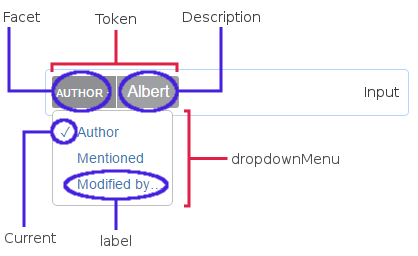
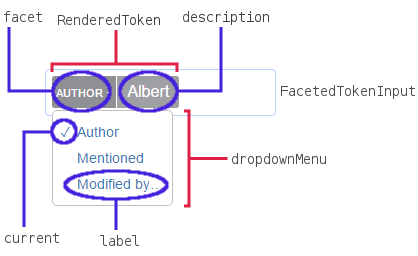
Corrected usage documentation page

diff --git a/docs/usage.md b/docs/usage.md
@@ -75,7 +75,8 @@ of this component in your React app.
 <a name="renderToken"></a>
 ### renderToken(token) (Required)
 
-A function that given a token return a rendered token.
+A function that given a `token` returns a rendered token to use in the main
+component.
 
 ```javascript
   renderToken(token) {
@@ -99,26 +100,22 @@ A function that given a token return a rendered token.
   }
 ```
 
-Here is a scheme of the token elements, based on the example included in the
-repository:
+Here is a scheme of the `RenderedToken` properties, based on the example
+included in the repository:
 
 ![Token elements scheme](./images/rendered-token-scheme.png)
 
-`facet`: a string that, in this example, will be displayed on the left side of
-the token.
-
-`description`: a string that, in this example, will be displayed on the right
-part of the token.
-
-`dropdownMenu`: The other possible options (if available) for the facet,
-defined as an array of objects. Each object contains:
-
-* `label`: a string that will be the new facet
-
-* `current`: a boolean that defines if this is the currently selected option, in
-  this example add and remove the check on the currently selected label.
-
-* `result`: the resulting token with the corrected facet
+* `facet`: a string that should represent the *kind* of the token. You can omit
+  it entirely.
+* `description`: a string that should represent the *content* or *value* of the
+  token.
+* `dropdownMenu`: The other possible options (if available) for this token,
+  defined as an array of objects. Each object contains:
+  * `label`: a string that will be the label for this option,
+  * `current`: a boolean that defines if this is the currently selected option
+    so a small tick can be presented on the left side,
+  * `result`: the new token that will overwrite the current one if this specific
+    option is chosen by the user.
 
 <a name="defaultToken"></a>
 ### defaultTokens
